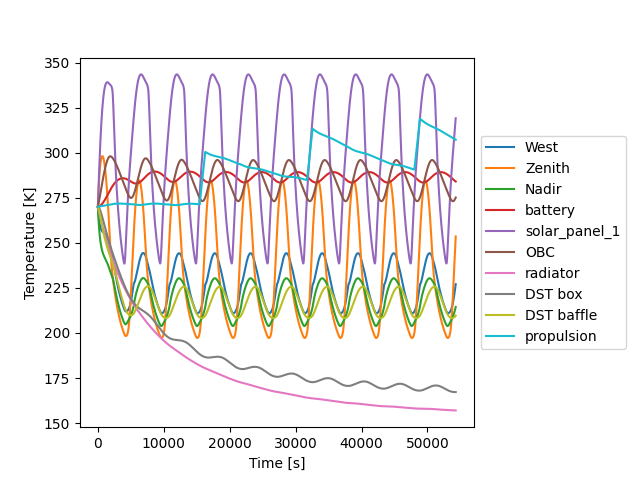
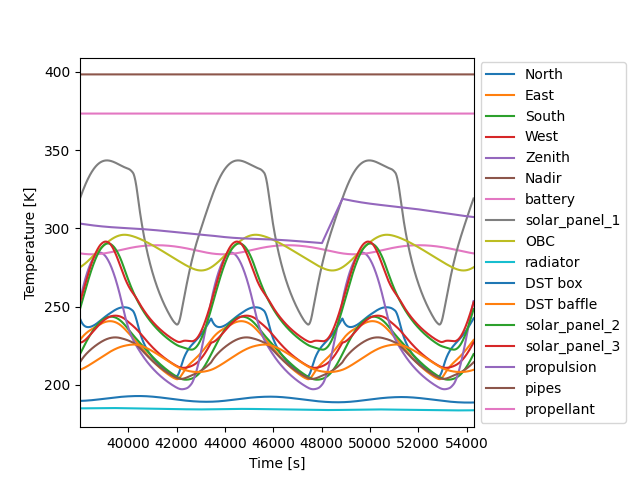
trying to integrate ESATAN data into thermal model

diff --git a/Thermal/configurations.py b/Thermal/configurations.py
@@ -99,11 +99,8 @@ def make_TCS(output=None, plot=False, unit='K', Q=None, file=None):
     TM = ThermalModel(nodes, connections, ENV, [270] * len(nodes), n_orbits=10, unit=unit, ESATAN=True, Q_ESATAN=Q)
     TM.solve()
     if plot:
-        TM.plot([3,4,5,6,7,8,10,11,12,15], with_legend=True, save=file)
-        plt.plot(np.arange(0, 10*Env().t_orbit, 10), np.ones(Env().t_orbit)*t_solver(0, 0.8, 0.016, 0.035), 'k--')
-        plt.plot(np.arange(0, 10 * Env().t_orbit, 10), np.ones(Env().t_orbit) * t_solver(0, 1.8, 0.044, 0.035), 'k--')
-        plt.show()
-        plt.close()
+        TM.plot([0,1,2,3,4,5,6,7,8,10,11,12,13,14,15], with_legend=True, save=file)
+        TM.plotting_Q()
 
     if output:
         res = {node.name: {'max': np.max(TM.solution.y[i][3000:]), 'min': np.min(TM.solution.y[i][3000:])}
@@ -347,23 +344,14 @@ def make_TCS(output=None, plot=False, unit='K', Q=None, file=None):
 #         plt.savefig('nice_plots_1.svg')
 #     plt.show()
 
-def t_solver(Qin, Qgen, A, e):
-    return ((Qin + Qgen)/ (A*e*5.67*10**-8))**0.25
-
 if __name__ == '__main__':
     AN15 = prepare_heat_flows(interpolate_points(heat_flows(), Env().t_orbit, 10))
 
-    # plt.plot(AN15[5])
-    # plt.xlim(8 * Env().t_orbit, 9 * Env().t_orbit)
-    # plt.show()
-    # plt.close()
-
-
-    # for i, arr in enumerate(AN15):
-    #     plt.plot(arr, label=f'{i}')
-    #     plt.xlim(8*Env().t_orbit, 9*Env().t_orbit)
-    #     plt.legend(loc='center right')
-    # plt.show()
-    # plt.close()
+    for i, arr in enumerate(AN15):
+        plt.plot(arr, label=f'{i}')
+        plt.xlim(8*Env().t_orbit, 9*Env().t_orbit)
+        plt.legend(loc='center right')
+    plt.show()
+    plt.close()
 
     make_TCS('results/TCS1.toml', plot=True, Q=AN15, file='results/TCS15.png')

diff --git a/Thermal/thermal_dyn_sim.py b/Thermal/thermal_dyn_sim.py
@@ -185,6 +185,9 @@ class ThermalModel:
         sol = solve_ivp(self.Tdot, (0, self.t_sim), self.init_temp, method='RK45', max_step=10, vectorized=True)
         self.solution = sol
 
+    def t_solver(self, Qin, Qgen, A, e):
+        return ((Qin + Qgen) / (A * e * 5.67 * 10 ** -8)) ** 0.25
+
     def plot(self, node_id=None, with_legend=False, save=None):
         """
         Plots the temperature of each node over the simulation time,
@@ -206,17 +209,22 @@ class ThermalModel:
             else:
                 for i in node_id:
                     plt.plot(self.solution.t, self.solution.y[i], label=f'{self.nodes[i].name}')
+            plt.plot(self.solution.t, np.ones(len(self.solution.t)) * self.t_solver(0, 0.8, 0.016, 0.035),
+                     label='pipes')
+            plt.plot(self.solution.t, np.ones(len(self.solution.t)) * self.t_solver(0, 1.35, 0.035, 0.035),
+                     label='propellant')
 
         if with_legend:
             plt.legend(bbox_to_anchor=(1, 0.5), loc="center left")
             plt.subplots_adjust(right=0.74)
         plt.xlabel('Time [s]')
         plt.ylabel(f'Temperature [{self.unit}]')
-        # plt.xlim(8*self.env.t_orbit, 9*self.env.t_orbit)
+        plt.xlim(7*self.env.t_orbit, 10*self.env.t_orbit)
         # plt.xticks(np.arange(8*self.env.t_orbit, 9*self.env.t_orbit, 1000), np.arange(0, int(self.env.t_orbit), 1000))
         if save:
             plt.savefig(save)
-
+        plt.show()
+        plt.close()
 
     def save_csv(self, filename):
         if self.solution is not None:

diff --git a/Thermal/esatan_reader.py b/Thermal/esatan_reader.py
@@ -54,7 +54,7 @@ def prepare_heat_flows(Q: dict):
     Q_res['solar_panel_1'] = Q['back_solar_top'] + Q['back_solar_bottom']
     Q_res['OBC'] = np.zeros(len(Q['north']))
     Q_res['propellant'] = np.zeros(len(Q['north']))
-    Q_res['radiator'] = Q['radiator']
+    Q_res['radiator'] = Q['radiator'] * 2
     Q_res['DST box'] = np.zeros(len(Q['north']))
     Q_res['DST baffle'] = Q['baffle_inner'] + Q['baffle_outer']
     Q_res['solar_panel_2'] = Q['side_solar_1_top'] + Q['side_solar_1_bottom']
